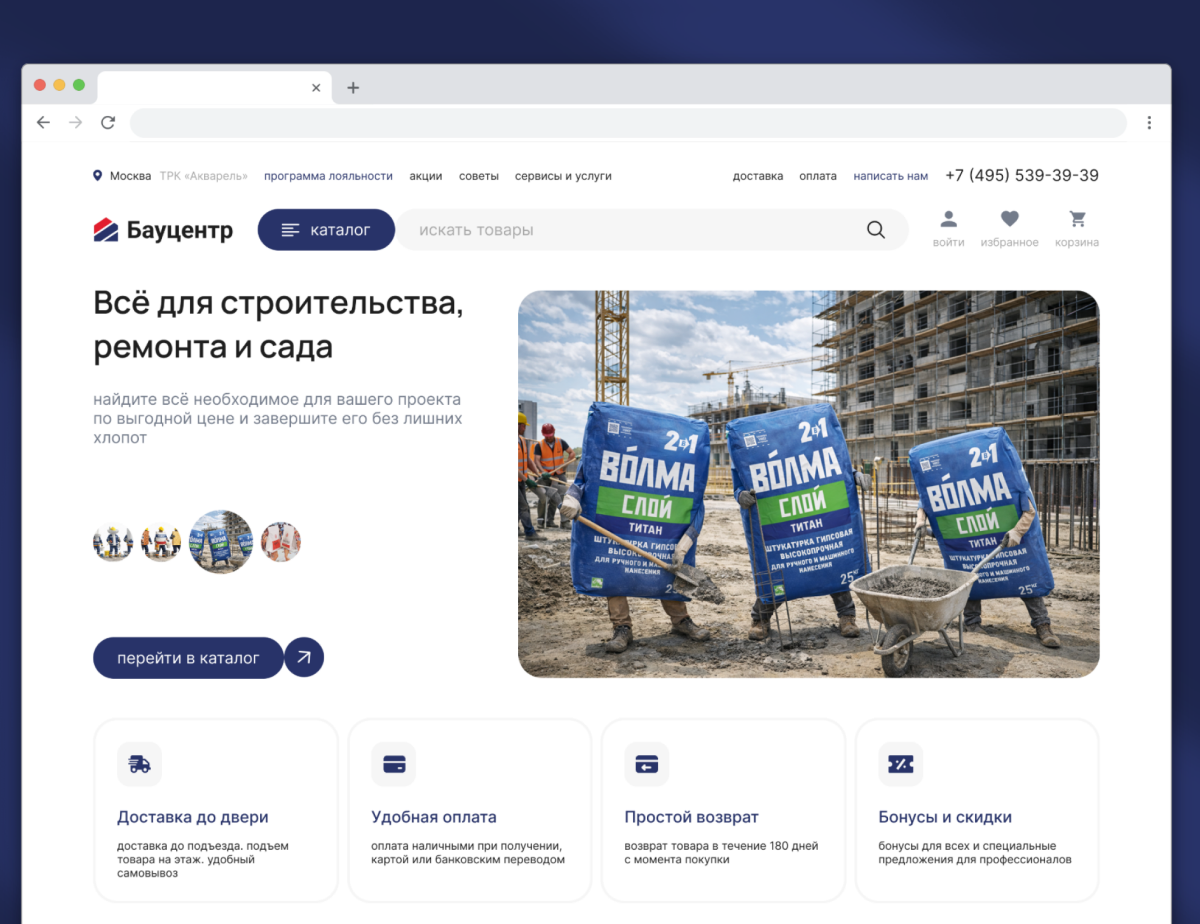
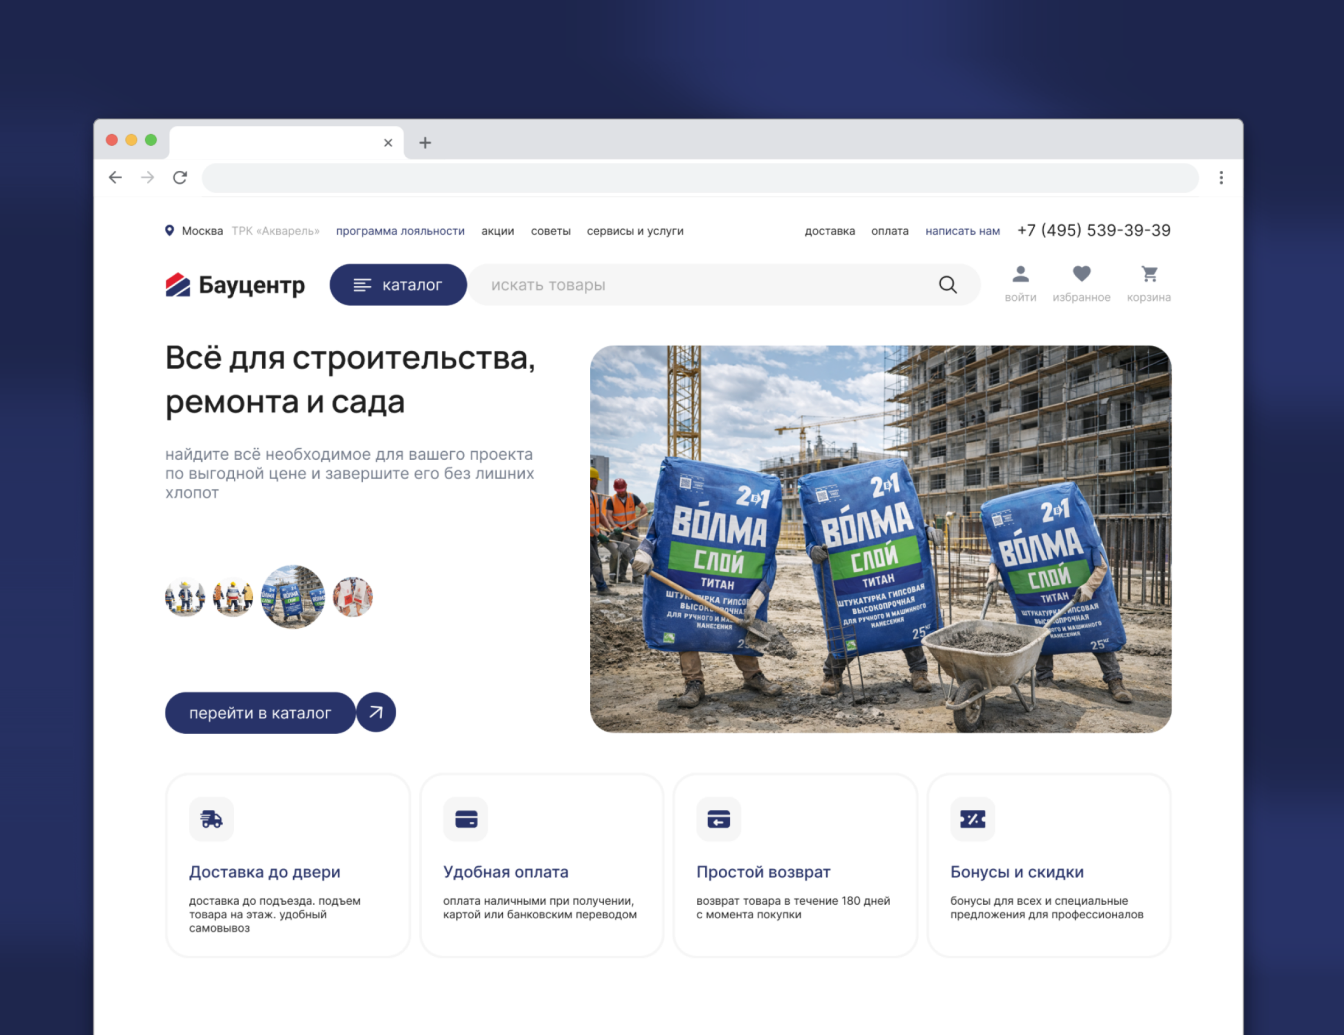
Replace flat fill with image bleed on the Baucentr card

diff --git a/css/styles.css b/css/styles.css
@@ -773,16 +773,6 @@ img {
   transition: transform var(--tilt-return) var(--tilt-return-ease);
   will-change: transform;
 }
-/* Карточка, где картинка уже выгружена из Figma ровно в кадр блока
-   (Бауцентр): гасим запас scale(1.12), чтобы в покое кадр совпадал с
-   макетом, а полоску, которую открывает параллакс, заливаем цветом фона
-   самой картинки. */
-.t-tilt-card--fit {
-  background: #1d254d;
-}
-.t-tilt-card--fit .card__media-img {
-  transform: scale(calc(1 / 1.12));
-}
 .t-tilt-card.is-tilting {
   transition: transform var(--tilt-follow) var(--tilt-follow-ease);
 }
@@ -803,8 +793,7 @@ img {
 }
 @media (prefers-reduced-motion: reduce) {
   .t-tilt-shift,
-  .t-tilt-card,
-  .t-tilt-card--fit .card__media-img {
+  .t-tilt-card {
     transform: none !important;
     transition: none !important;
   }

diff --git a/index.html b/index.html
@@ -105,7 +105,7 @@
           <div class="card__visual" data-name="card_visual">
             <div class="card__media card__media--2 t-tilt" data-name="card_media">
               <div class="t-tilt-shift">
-                <div class="t-tilt-card t-tilt-card--fit">
+                <div class="t-tilt-card">
                   <picture>
                     <source media="(max-width: 768px)" srcset="assets/images/card-baucentr-mobile.png">
                     <img src="assets/images/card-baucentr-desktop.png" alt="Бауцентр" class="card__media-img card__media-img--cover">
